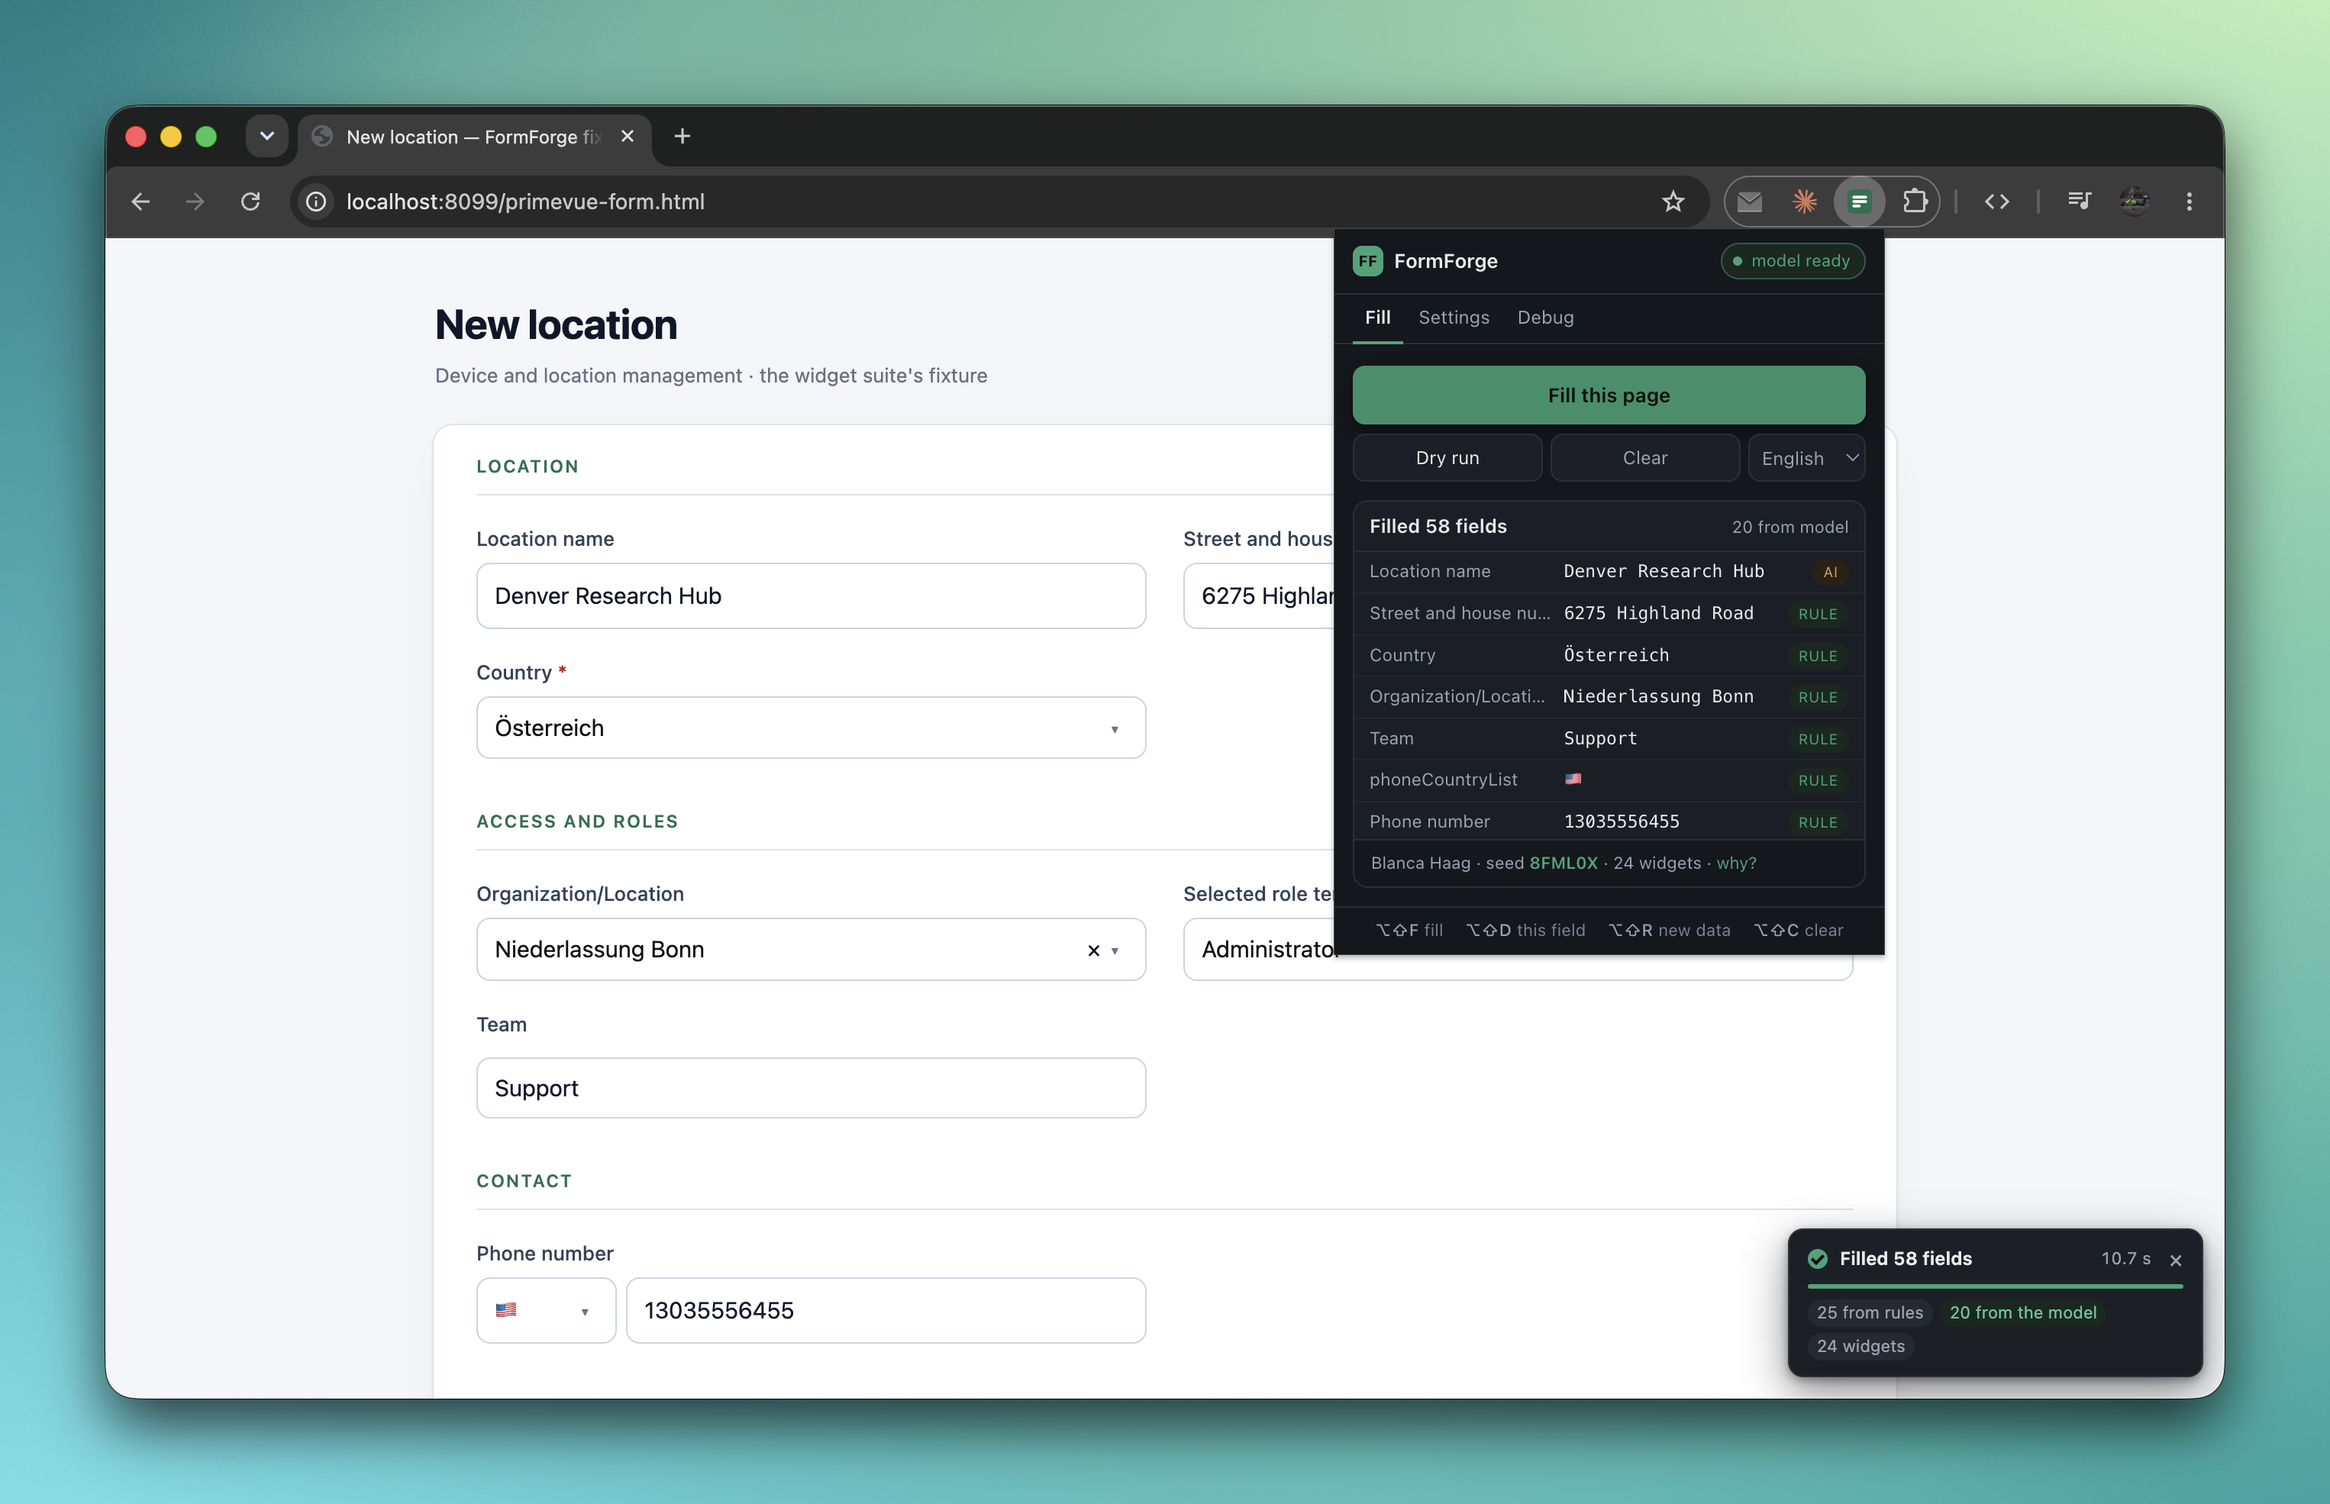
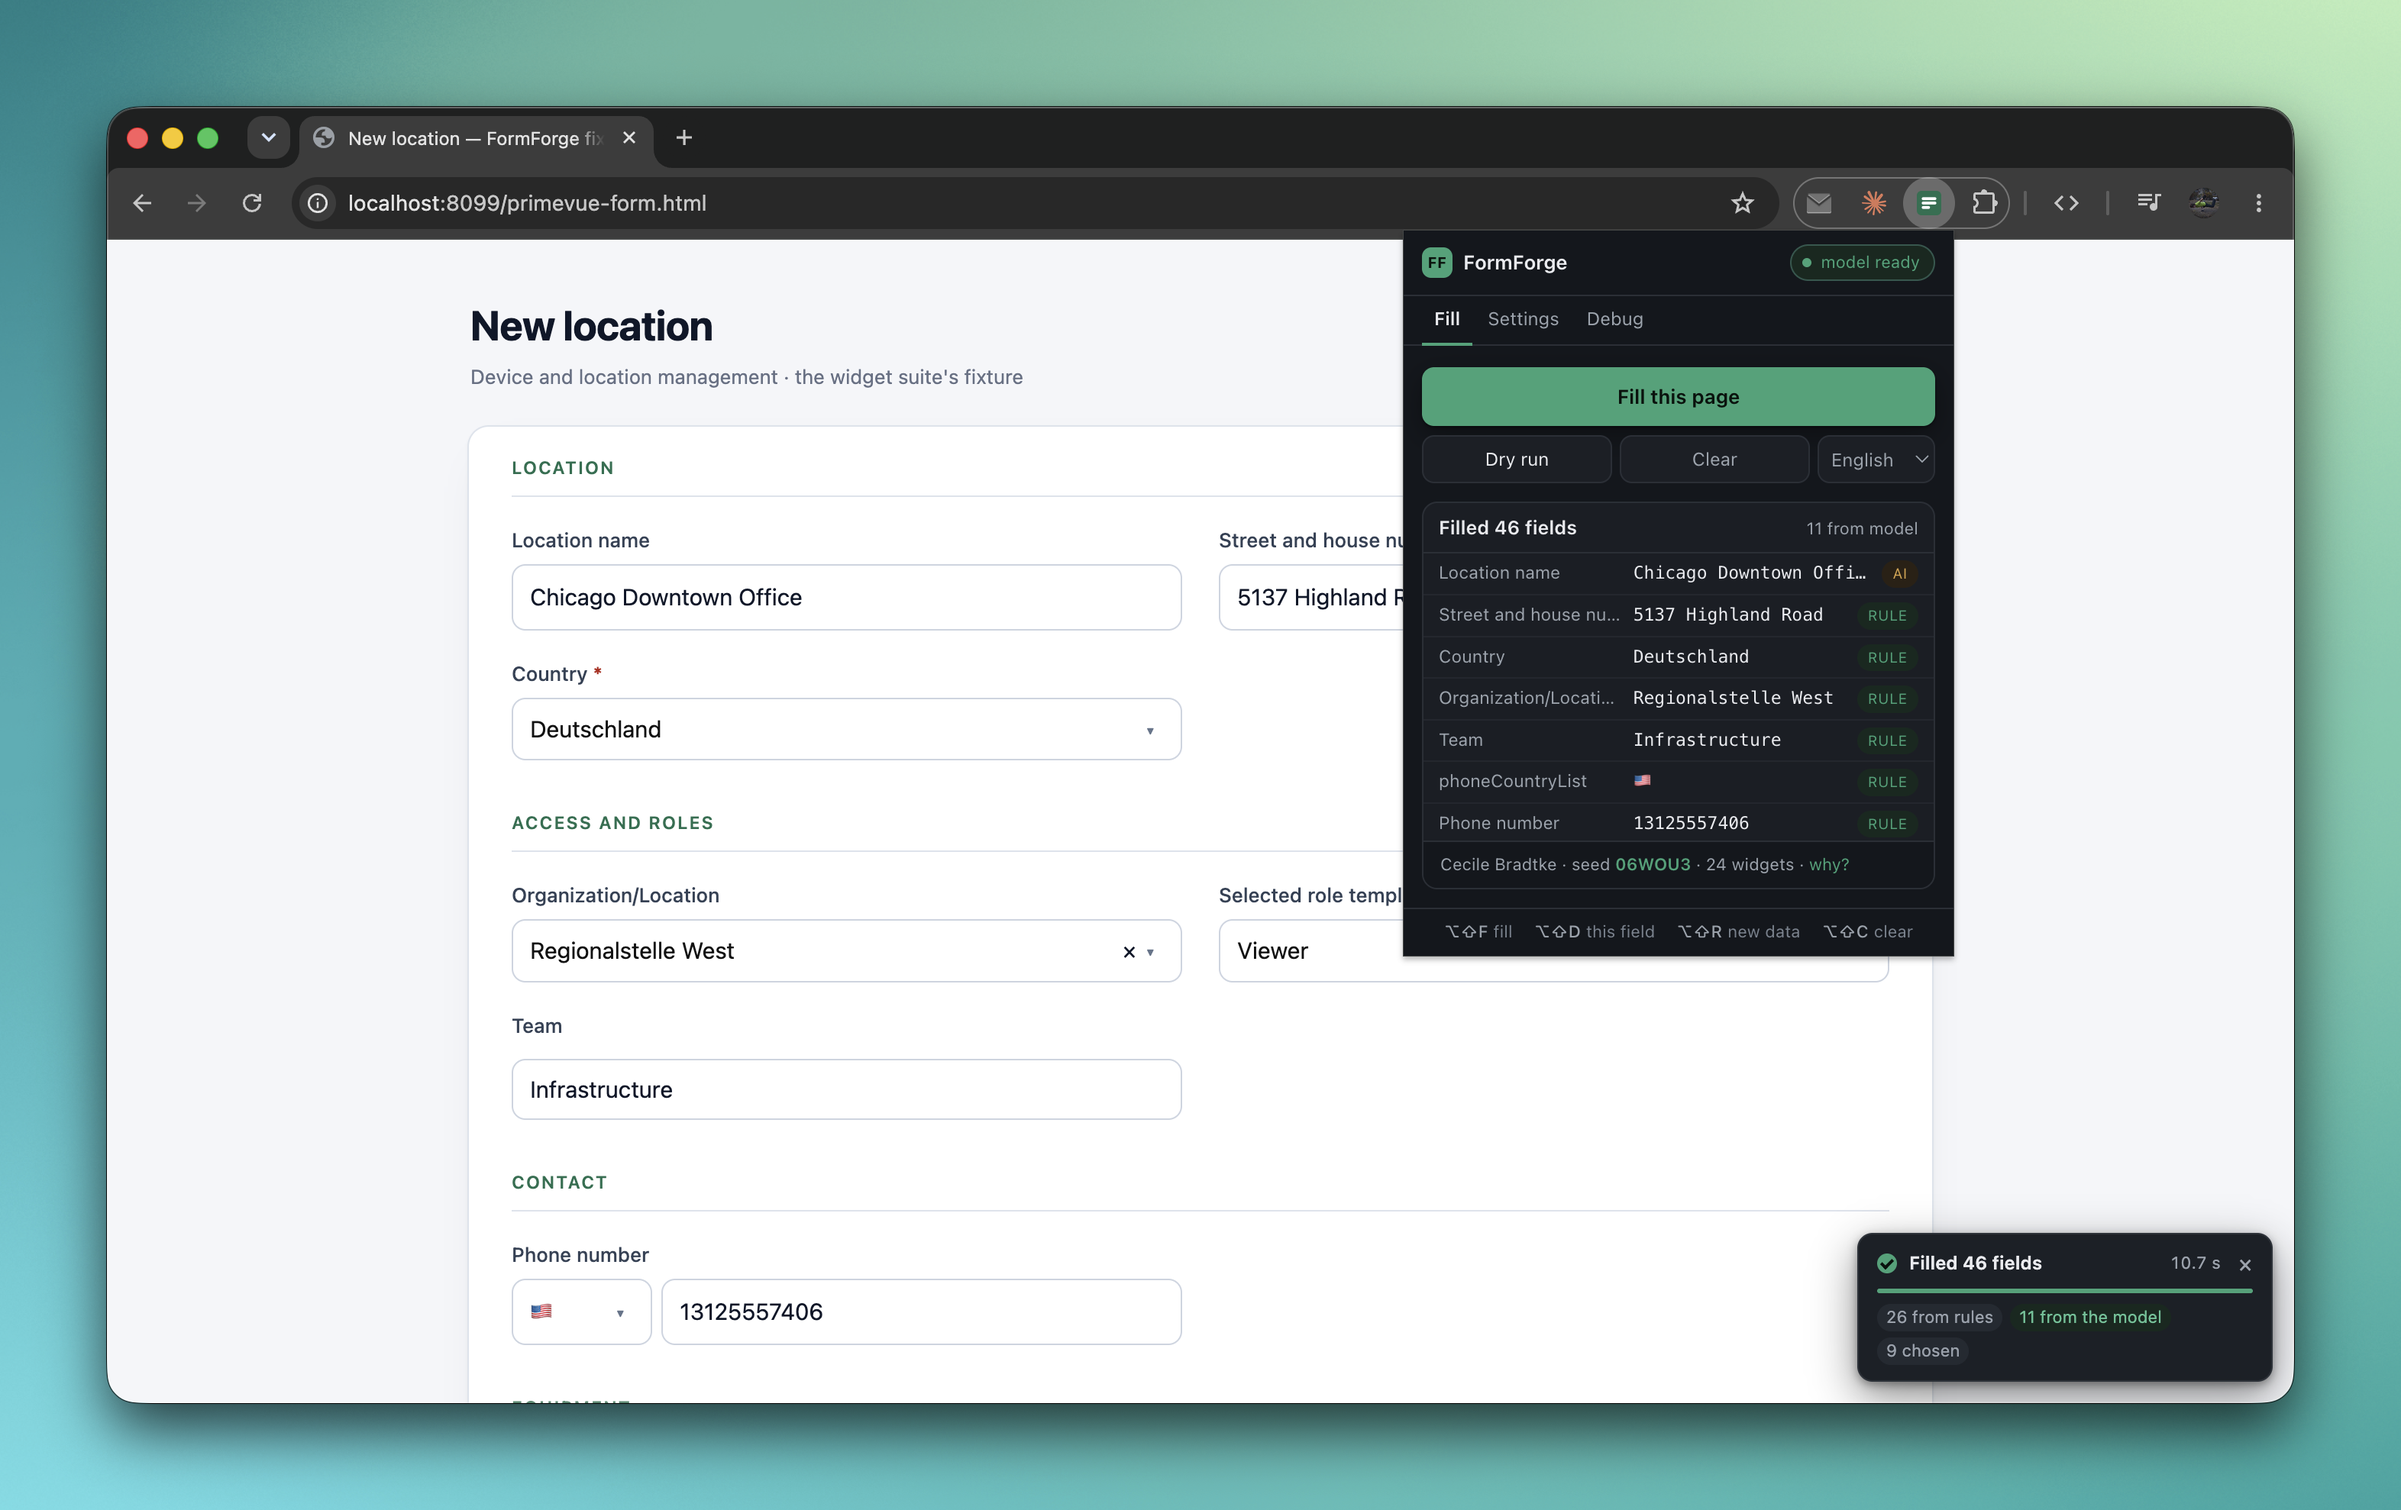
FormForge 1.0.1: the card's numbers add up
"25 from rules" and "20 from the model" over "Filled 58 fields" invites
the arithmetic and then loses thirteen fields in the gap: there was no
chip for what the control itself chose — a checkbox, a radio group, a
list no rule answers — so a third of a form was represented nowhere.
There is one now, and the row comes to the total above it.

The widget count came off the card with it. It is a second question
about the same fields rather than a fourth way of choosing one, and on a
card four words wide any number reads as another number to add; set
apart in grey it read as something half-drawn. It was already in the
popup's own line, in the report and in the Debug tab, which is where a
count of how hard the fill was belongs.

diff --git a/src/hud.js b/src/hud.js
@@ -348,10 +348,17 @@
             const how = String(f.source || '').split('/')[0];
             by[how] = (by[how] || 0) + 1;
         }
+        /* One row, one question: where the values came from. The chips come to
+         * the total above them, so the arithmetic the card invites is arithmetic
+         * that works — a row reading 25 and 20 over "Filled 58 fields" lost the
+         * thirteen the control itself chose, which had no chip. How many of
+         * those fields were widgets is a second question about the same fields,
+         * and the answer is a line down in the popup and in the report; on a
+         * card four words wide it reads as another number to add. */
         if (by.rule || by.type) tag(`${(by.rule || 0) + (by.type || 0)} from rules`);
         if (by.ai) tag(`${by.ai} from the model`, 'ff-ai');
+        if (by.choice) tag(`${by.choice} chosen`);
         if (by.fallback) tag(`${by.fallback} filler`);
-        if (d.widgets) tag(`${d.widgets} widget${d.widgets === 1 ? '' : 's'}`);
         if (d.skipped && d.skipped.length) {
             tag(`${d.skipped.length} left empty`, 'ff-miss');
             const names = d.skipped.slice(0, 2).map(s => s.label).filter(Boolean).join(', ');

diff --git a/CLAUDE.md b/CLAUDE.md
@@ -60,6 +60,9 @@ one. `test/primevue-form.html?latency=slow` makes the fixture's remote pickers s
   `package.json` together. A commit that changes nothing the package carries — tooling, suites, docs, fixtures —
   leaves the version where it is and drops the version from its subject: there is no new build to name. A `v1.0.1`
   tag — matching the manifest — is what publishes it; nothing else does.
-- **Never commit or push unasked.** Finish the work, run the suites, leave it in the working tree, and say what is
-  in it. Recording it in history, and when, is the user's call — and permission for one commit is permission for
-  that commit, not for the ones after it. The version bump above is part of the change, not a reason to commit it.
+- **Never commit or push unasked, and they are two separate asks.** Finish the work, run the suites, leave it in
+  the working tree, and say what is in it. Recording it in history, and when, is the user's call — and permission
+  for one commit is permission for that commit, not for the ones after it. "Commit" is not "push": a commit stays
+  local until asked for in so many words, because a push is the first step anybody else can see. A tag is a third
+  ask again — pushing one publishes a release. The version bump above is part of the change, not a reason to
+  commit it.
